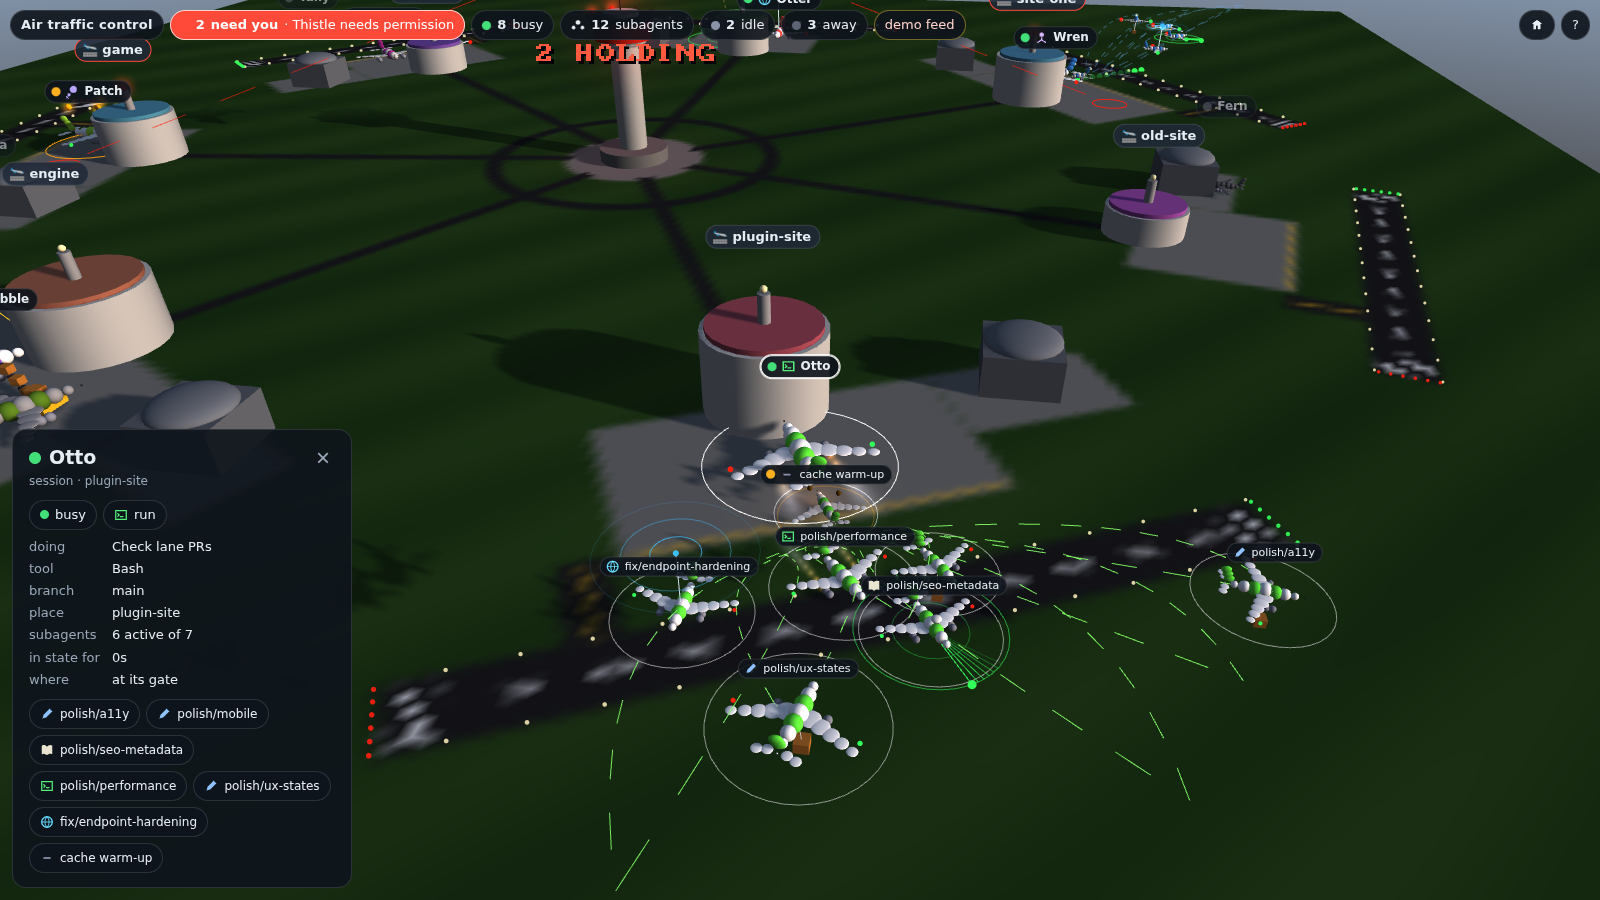
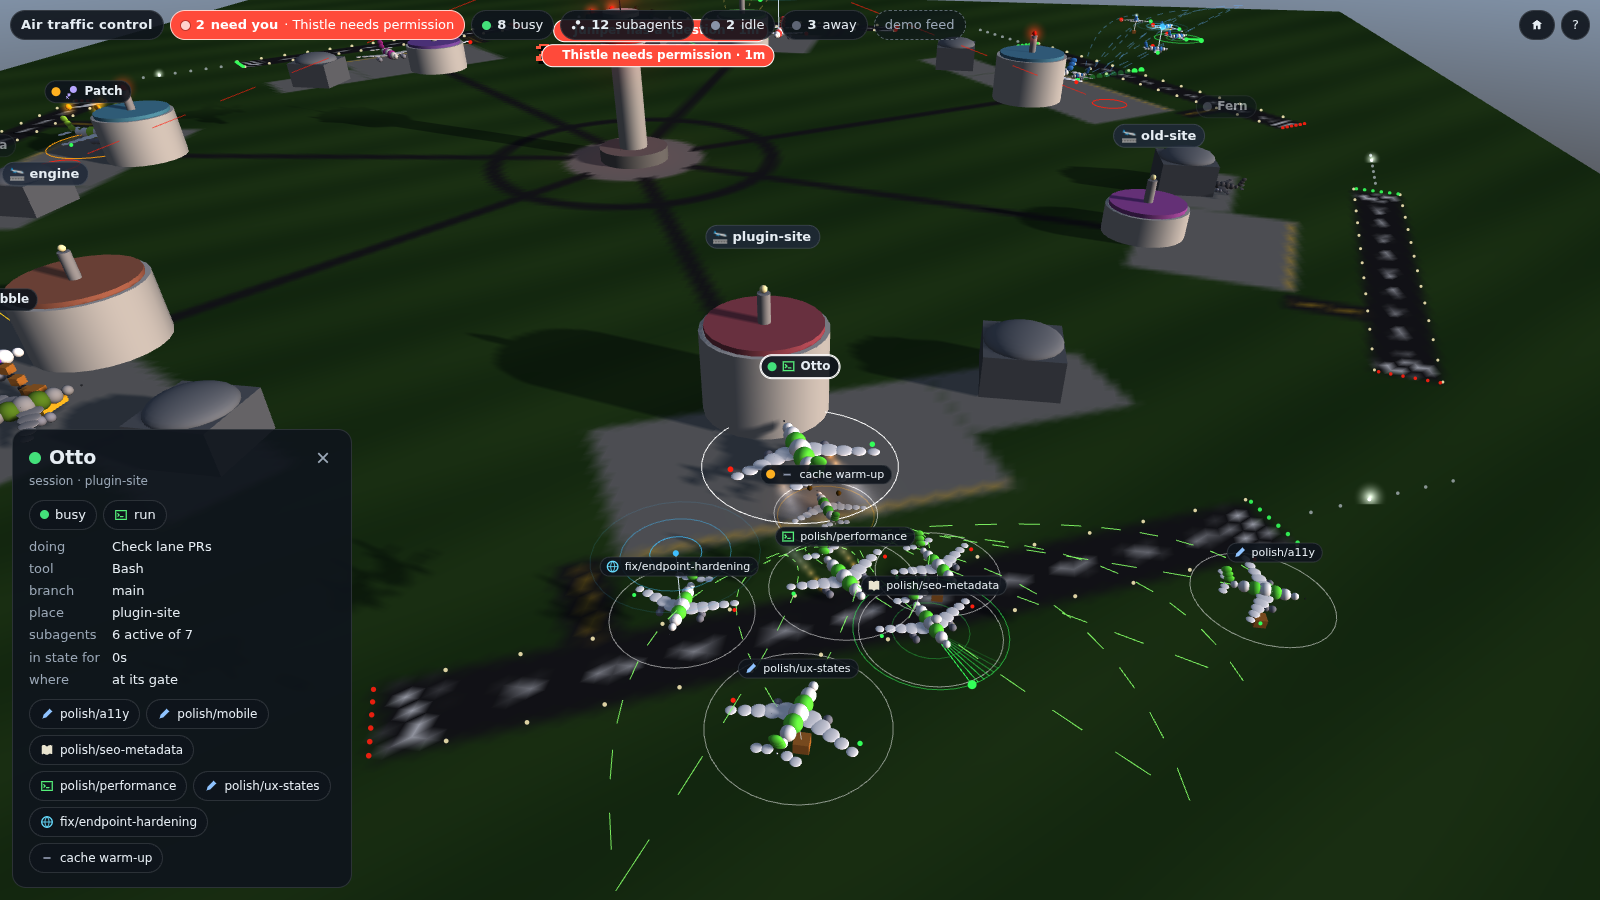
Polish: one-line top bar, phone tap framing, HUD-clear labels, approach lights
Compact top bar in steps down to 320px; pale waiting dot in the need-you
chip and a quiet demo tag; a tapped aircraft glides clear of the bottom
sheet; world labels keep out of the bar, panel and legend; stalled
subagents always labelled; steeper portrait framing; runway approach
lights with a running flash. README media regenerated from the fixture.

Claude-Session: https://claude.ai/code/session_01LYNeukFY6qMGdbKQJnTwr8

diff --git a/web/page.js b/web/page.js
@@ -4,7 +4,7 @@
 (function () {
   "use strict";
   const REASON = {question: "has a question", permission: "needs permission"};
-  const DEFAULT_YAW = 2.2, DEFAULT_PITCH = 0.72;
+  const DEFAULT_YAW = 2.2, DEFAULT_PITCH = 0.72, PORTRAIT_PITCH = 0.98;
   const canvas = document.getElementById("view");
   const field = new window.AtcField();
   const wire = AgentvizWire.create();
@@ -23,24 +23,46 @@
   /* ------------------------------------------------------------ camera */
   // The whole field, whatever the window's shape. The target sits a little
   // towards the camera: perspective makes the near edge of the ring the widest.
+  // On a portrait screen the camera looks down more steeply, so the ring
+  // fills more of the tall view and its labels spread out.
   function fitView() {
     const aspect = canvas.clientWidth / Math.max(1, canvas.clientHeight);
-    const toward = field.extent * 0.16;
-    return {yaw: DEFAULT_YAW, pitch: DEFAULT_PITCH, ty: 3,
+    const pitch = aspect < 1 ? PORTRAIT_PITCH : DEFAULT_PITCH;
+    const toward = field.extent * (aspect < 1 ? 0.08 : 0.16);
+    return {yaw: DEFAULT_YAW, pitch, ty: 3,
       tx: Math.cos(DEFAULT_YAW) * toward, tz: Math.sin(DEFAULT_YAW) * toward,
       dist: Math.min(220, field.extent * 1.45 * Math.max(1, 1.5 / aspect))};
   }
   function fit() { follow = null; if (kit) Object.assign(kit.cam, fitView()); }
 
-  // Glide the camera after an aircraft until it is centred (it may be moving).
+  // The bottom sheet (a phone) covers the lower half of the field: there the
+  // selected aircraft is framed in the clear band between the top bar and
+  // the sheet instead of in the middle of the canvas.
+  function sheetOpen() { return hud.panel && !hud.panel.hidden && hud.panel.getBoundingClientRect().left < 2; }
+
+  // How far (world units, along the ground towards the camera) to set the
+  // camera's target from a point so that the point sits in the clear band.
+  function clearBandShift(p) {
+    if (!sheetOpen()) return 0;
+    const bar = document.querySelector(".av-bar"), r = canvas.getBoundingClientRect();
+    const top = bar ? bar.getBoundingClientRect().bottom : 0;
+    const want = (top + hud.panel.getBoundingClientRect().top) / 2 - r.top;
+    const fx = -Math.cos(kit.cam.yaw), fz = -Math.sin(kit.cam.yaw);  // screen-up on the ground
+    const q0 = kit.project(p.x, p.y, p.z), q1 = kit.project(p.x + fx, p.y, p.z + fz);
+    const perUnit = q0 && q1 ? q0.y - q1.y : 0;
+    return perUnit > 1 ? (canvas.clientHeight / 2 - want) / perUnit : 0;
+  }
+
+  // Glide the camera after an aircraft until it is framed (it may be moving).
   function stepFollow(dt) {
     if (!follow) return;
     const a = field.agents.get(follow);
     if (!a) { follow = null; return; }
-    const k = 1 - Math.exp(-3 * dt), cam = kit.cam;
-    cam.tx += (a.disp.x - cam.tx) * k; cam.ty += (a.disp.y - cam.ty) * k; cam.tz += (a.disp.z - cam.tz) * k;
+    const k = 1 - Math.exp(-3 * dt), cam = kit.cam, shift = clearBandShift(a.disp);
+    const gx = a.disp.x + Math.cos(cam.yaw) * shift, gz = a.disp.z + Math.sin(cam.yaw) * shift;
+    cam.tx += (gx - cam.tx) * k; cam.ty += (a.disp.y - cam.ty) * k; cam.tz += (gz - cam.tz) * k;
     cam.dist += (Math.max(22, Math.min(cam.dist, 40)) - cam.dist) * k;
-    if (Math.hypot(a.disp.x - cam.tx, a.disp.z - cam.tz) < 0.3) follow = null;
+    if (Math.hypot(gx - cam.tx, gz - cam.tz) < 0.3 && Math.abs(cam.dist - Math.max(22, Math.min(cam.dist, 40))) < 0.5) follow = null;
   }
 
   /* ------------------------------------------------------------ labels */
@@ -53,10 +75,11 @@
     return {el, rank: selected || waiting ? 0 : 2, tries: 3};  // a lead may step up over a crowded gate
   }
 
-  // Subagents are labelled only while they or their lead are selected.
+  // Subagents are labelled while they or their lead are selected, and a
+  // stalled one always (it may need a look).
   function followerLabel(a) {
     const f = a.data, selected = a.id === selectedId;
-    if (!selected && a.leadAgent.id !== selectedId) return null;
+    if (!selected && a.leadAgent.id !== selectedId && !f.stalled) return null;
     const el = labels.set("a:" + a.id, {cls: "sub" + (selected ? " sel" : ""), state: f.stalled ? "stalled" : null,
       action: f.state === "active" ? f.action : "none", text: f.label || f.id});
     return {el, rank: selected ? 0 : f.state === "active" ? 3 : 2};
@@ -82,7 +105,30 @@
       items.push(item);
     }
     labels.end();
+    keepClearOfHud(items);
     StrataKit.placeLabels(items);
+  }
+
+  // No world label under the top bar, the panel or the legend. A label that
+  // must stay (rank 0: holding or selected) drops just below the bar instead.
+  function keepClearOfHud(items) {
+    const r = canvas.getBoundingClientRect(), boxes = [];
+    for (const sel of [".av-panel", ".av-legend"]) {
+      const node = document.querySelector(sel);
+      if (node && !node.hidden) boxes.push(node.getBoundingClientRect());
+    }
+    const bar = document.querySelector(".av-bar");
+    const barBottom = bar ? bar.getBoundingClientRect().bottom - r.top + 4 : 0;
+    for (const it of items) {
+      if (!it.q) continue;
+      const h = it.el._skH || 20, x = it.q.x + r.left, y = it.q.y + r.top;
+      if (boxes.some((b) => x > b.left && x < b.right && y > b.top && y - h < b.bottom)) {
+        if (it.rank > 0) it.q = null;
+      } else if (it.q.y - h < barBottom) {
+        if (it.rank > 0) it.q = null;
+        else it.q = Object.assign({}, it.q, {y: barBottom + h});
+      }
+    }
   }
 
   /* ------------------------------------------------------------ picking + selection */
@@ -102,7 +148,8 @@
     selectedId = idOf(target);
     const a = selectedId && field.agents.get(selectedId);
     if (kit) kit.selected = a || null;
-    if (a && (how === "list" || how === "waiting")) follow = a.id;
+    // A tap on a phone glides the aircraft clear of the sheet that just opened.
+    if (a && (how === "list" || how === "waiting" || (how === "tap" && sheetOpen()))) follow = a.id;
   }
 
   // ATC's own rows under the kit's: how long in this state, where it sits.

diff --git a/web/index.html b/web/index.html
@@ -25,6 +25,35 @@
   @keyframes atc-pulse { from { box-shadow: 0 0 0 0 rgba(255, 74, 58, 0.9); } to { box-shadow: 0 0 0 6px rgba(255, 74, 58, 0); } }
   @media (prefers-reduced-motion: reduce) { .av-label.waiting { animation: none; } }
   .av-legend ul { list-style: none; margin: 0; padding: 0; display: grid; gap: 4px; }
+  /* --av-note themes both the waiting dot and the demo badge in the kit. Here the dot is red on the
+     field (labels, panel) but pale inside the red "need you" chip, where red would vanish; the demo
+     badge is a quiet dashed tag, so it never reads as something waiting. */
+  .av-wait .av-dot, .av-needs .av-dot { background: var(--av-note); box-shadow: 0 0 0 1px rgba(0, 0, 0, 0.25); }
+  .av-badge { color: var(--av-muted); border: 1px dashed rgba(154, 167, 182, 0.55); background: rgba(14, 20, 28, 0.6); }
+  /* Compact top bar: always one line, in steps as the window narrows. First the count words go (each
+     chip keeps its title), then the "who" on the need-you chip (the chip still cycles to each one and
+     the panel says why) and the title shortens to ATC; on a phone the title, the idle and away counts
+     (the field shows those aircraft) and, below 380px, the demo tag go. */
+  @media (max-width: 1100px) {
+    .av-bar { flex-wrap: nowrap; }
+    .av-bar .av-chip { flex: none; }
+    .av-bar .av-wide { display: none; }
+  }
+  @media (max-width: 900px) {
+    .av-bar { gap: 4px; }
+    .av-bar .av-chip { font-size: 12px; padding: 4px 8px; gap: 4px; }
+    .av-bar .av-wait-who { display: none; }
+    .av-title { font-size: 0 !important; }
+    .av-title::after { content: "ATC"; font-size: 12px; }
+  }
+  @media (max-width: 520px) {
+    .av-bar .av-chip { padding: 4px 6px; }
+    .av-bar .av-title, .av-bar > .av-chip:has(> .av-s-idle), .av-bar > .av-chip:has(> .av-s-offline) { display: none; }
+    .av-bar button.av-chip { min-width: 40px; justify-content: center; }
+    .av-badge { font-size: 0 !important; }
+    .av-badge::after { content: "demo"; font-size: 12px; }
+  }
+  @media (max-width: 379px) { .av-bar .av-badge { display: none; } }
 </style>
 </head>
 <body>

diff --git a/scene/airport.h b/scene/airport.h
@@ -1,7 +1,8 @@
 // airport.h: one airport per place, from its zone record (atc-frame.js):
 // a round terminal in the place's colour (taller the more tool calls were
 // seen there), its beacon (flashing red while one of its aircraft holds),
-// a hangar for offline aircraft, and runway edge and threshold lights.
+// a hangar for offline aircraft, runway edge and threshold lights, and
+// approach lights with a running flash.
 #pragma once
 
 #include <vector>
@@ -83,10 +84,27 @@ inline void drawRunwayLights(const Airport& ap) {
         }
 }
 
+// Approach lights on the centreline past the green threshold, with a
+// sequenced flash (the "rabbit") running in towards the runway and a pause.
+inline void drawApproachLights(const Airport& ap, double t) {
+    constexpr int kLights = 6;
+    const float half = ap.runwayHalf();
+    const int lit = H().reducedMotion
+        ? -1
+        : kLights - 1 - static_cast<int>(fract(static_cast<float>(t) * 1.2f + ap.hue) * (kLights + 2));
+    float x, z;
+    for (int k = 0; k < kLights; ++k) {
+        ap.at(7.3f, -(half + 1.6f + k * 1.2f), x, z);
+        dot(x, 0.1f, z, 3.0f, 0.12f, {0.9f, 0.92f, 1.0f}, 0.55f);
+        if (k == lit) glow(x, 0.2f, z, 1.2f, kWhite, 0.95f);
+    }
+}
+
 inline void drawAirport(const Airport& ap, double t) {
     drawTerminal(ap, t);
     drawHangar(ap);
     drawRunwayLights(ap);
+    drawApproachLights(ap, t);
 }
 
 }  // namespace atc

diff --git a/README.md b/README.md
@@ -42,7 +42,11 @@ Tap an aircraft to open its panel (a bottom sheet on a phone; swipe it down or
 tap the cross to close). The red **need you** chip names who is waiting and
 why (a question, or a permission prompt), flies the camera to them and cycles
 through them; the house button shows the whole field again; `?` opens the
-legend. If the feed stops answering, a banner says so and the last snapshot
+legend. The top bar stays on one line however narrow the window: the count
+words, then the chip's "who" go first, and on a phone the idle and away counts
+(the field shows those aircraft). On a phone a tapped aircraft glides into the
+clear band above the sheet, and world labels never sit under the bar or the
+sheet. If the feed stops answering, a banner says so and the last snapshot
 stays; with no sessions at all, a hint says how to start.
 
 ## What you're seeing
@@ -53,7 +57,7 @@ stays; with no sessions at all, a hint says how to start.
 | Red lamps round the tower cab, flashing red mast beacon, `N HOLDING` | how many sessions are waiting on you; a green beacon means `ALL CLEAR` | sessions with `state: waiting` |
 | 🛬 Aircraft circling the tower with a pulsing red beacon | **waiting**: blocked on you. The longer it has waited, the higher it sits in the stack and the faster it pulses. A dashed red line runs back to its gate, where a red ring pulses | `state: waiting`, `statusAgeSec` |
 | A yellow "?" over the beacon / a padlock over it | waiting on a question / on a permission prompt; its label says which | `waitingReason` |
-| Airport (round terminal, apron, runway, hangar) | a place (a repo, by directory name); its beacon flashes red while one of its aircraft is holding | `places[]` |
+| Airport (round terminal, apron, runway with approach lights and their running flash, hangar) | a place (a repo, by directory name); its beacon flashes red while one of its aircraft is holding | `places[]` |
 | A taller terminal | more tool calls seen at that repo | `places[].toolCount` |
 | ✈ Large aircraft at a gate, nav lights and strobe on | a session that is working | `state: busy` |
 | Fin and livery colour | the session's family: its subagents carry the same colour | `seed` |
@@ -61,7 +65,7 @@ stays; with no sessions at all, a hint says how to start.
 | 🅿 Small aircraft parked in a row behind its lead | a resting subagent (landed) | `followers[].state: resting` |
 | Darker aircraft at a gate, lights off | idle | `state: idle` |
 | Small grey aircraft by the hangar | offline | `state: offline` |
-| Three flashing amber lights and an amber ring | stalled: a session busy with nothing written for 5 minutes, or a subagent quiet that long without finishing | `stalled`, `followers[].stalled` |
+| Three flashing amber lights and an amber ring | stalled: a session busy with nothing written for 5 minutes, or a subagent quiet that long without finishing (a stalled subagent is always labelled) | `stalled`, `followers[].stalled` |
 | A cyan ring going out and the landing light flashing | a new tool call, just now | `lastToolAt`, `followers[].toolCount` |
 | 📦 Belt loader carrying crates into the hold (a slung crate in flight) | **edit** | `action: edit` |
 | 🔥 Exhaust streaming from both engines | **run** | `action: run` |
@@ -87,7 +91,7 @@ stays; with no sessions at all, a hint says how to start.
 | | |
 |---|---|
 | ![The selected-agent panel open on the desktop, listing the session's state, action, branch and its subagents](docs/media/panel-desktop.png) | ![A phone in portrait: the field with the bottom sheet open on the waiting session](docs/media/phone.png) |
-| *The panel for a selected aircraft: state, what it is doing now, tool, branch, airport, how long in this state, and each subagent as a chip you can tap to fly the camera to it. A subagent's own panel shows its own branch.* | *Phone (390x844, DPR 3): the bottom sheet open on Thistle, which needs permission.* |
+| *The panel for a selected aircraft: state, what it is doing now, tool, branch, airport, how long in this state, and each subagent as a chip you can tap to fly the camera to it. A subagent's own panel shows its own branch.* | *Phone (390x844, DPR 3): the bottom sheet open on Thistle, which needs permission. The top bar keeps to one line.* |
 | ![The field from a low angle, with the tower and holding stack against the sky](docs/media/angle-low.png) | ![The field from straight above: the tower, ring road and seven airports](docs/media/angle-top.png) |
 | *From a low angle: the tower and its holding stack against the sky.* | *From straight above: the ring of airports, the service roads and the flight loops.* |
 
